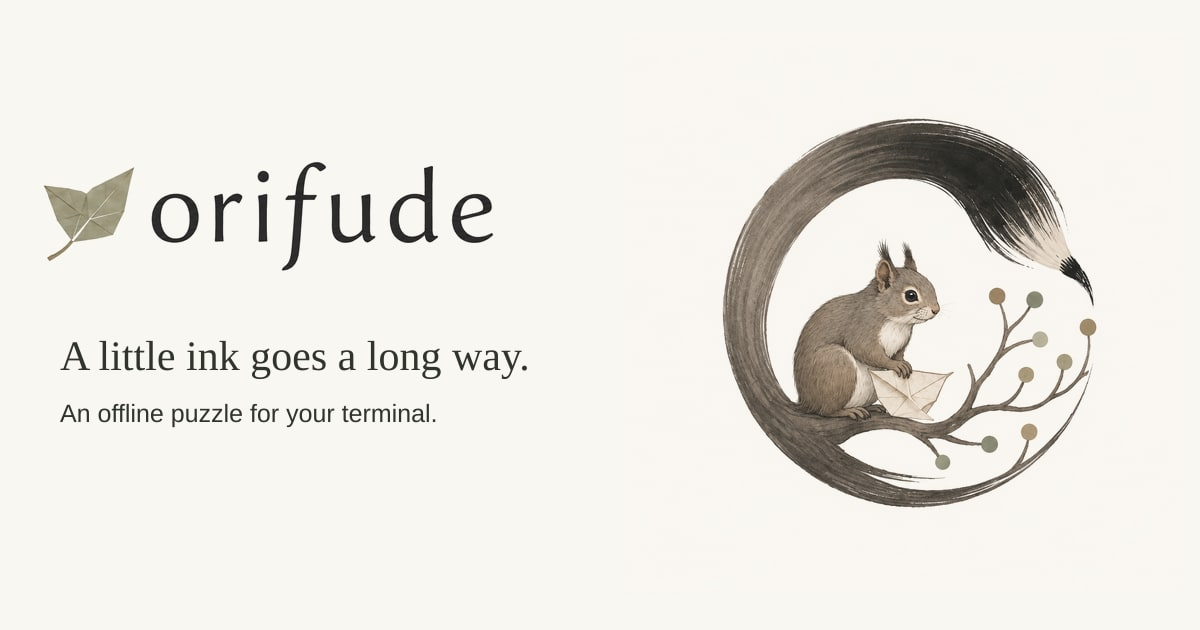
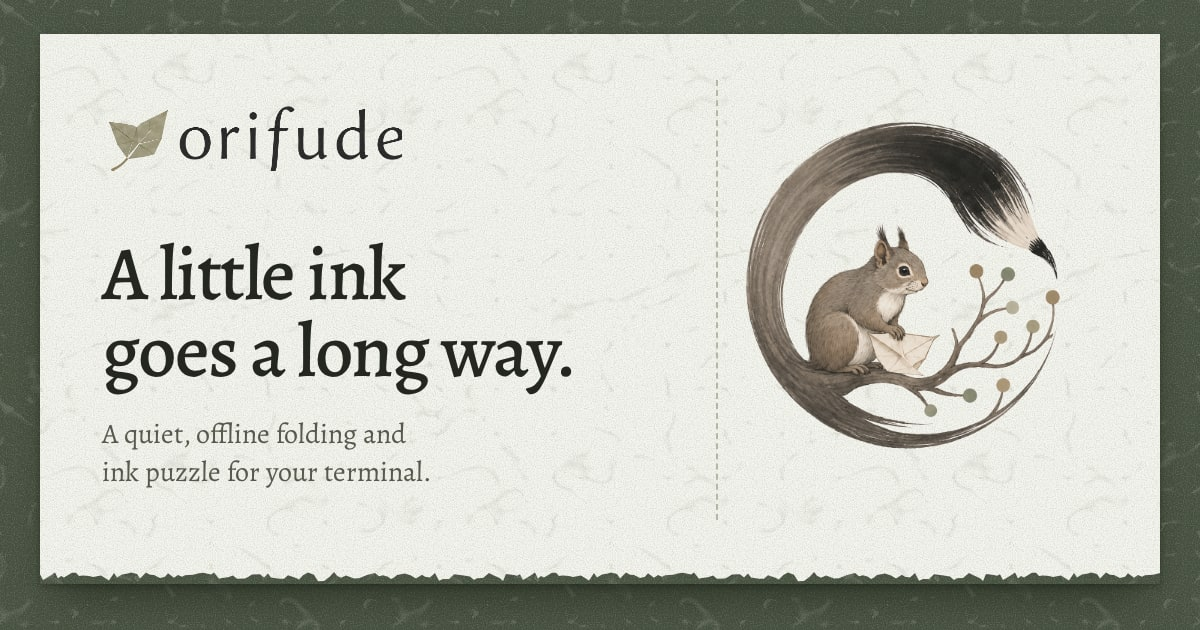
Draw the link preview on the site's paper
The social card now shows the kozo sheet on moss-dyed paper with a torn
edge, the wordmark, an Alegreya headline, and the squirrel blended into
the paper. A new script renders it in Playwright's Chromium so it can use
the bundled font and textures; the artwork script no longer draws it.

diff --git a/docs/maintenance.md b/docs/maintenance.md
@@ -53,8 +53,11 @@ captured from the published 1.1.0 binary at release commit
 [`eb2c309`](https://github.com/nuggocto/orifude/commit/eb2c3094c2198bc3b29ad07087f24318e7035ab9).
 Recapture it with the lesson frame when the play screen changes.
 Run `node scripts/prepare-artwork.mjs` to regenerate the terminal still, icons,
-social image, and font notices. That manual task needs JetBrainsMono Nerd Font;
-ordinary builds use checked-in assets and need no system font.
+and font notices. That manual task needs JetBrainsMono Nerd Font; ordinary builds
+use checked-in assets and need no system font. Run `node scripts/prepare-social.mjs`
+to redraw `public/social.jpg`, the 1200 by 630 link preview. It renders the site's
+paper, Alegreya, and artwork in Playwright's Chromium, so it needs the installed
+browsers.
 
 With the built preview running, `node scripts/measure-browser.mjs` saves screenshots
 and five cold desktop/mobile measurements under `.preview/`. It uses Chromium,
